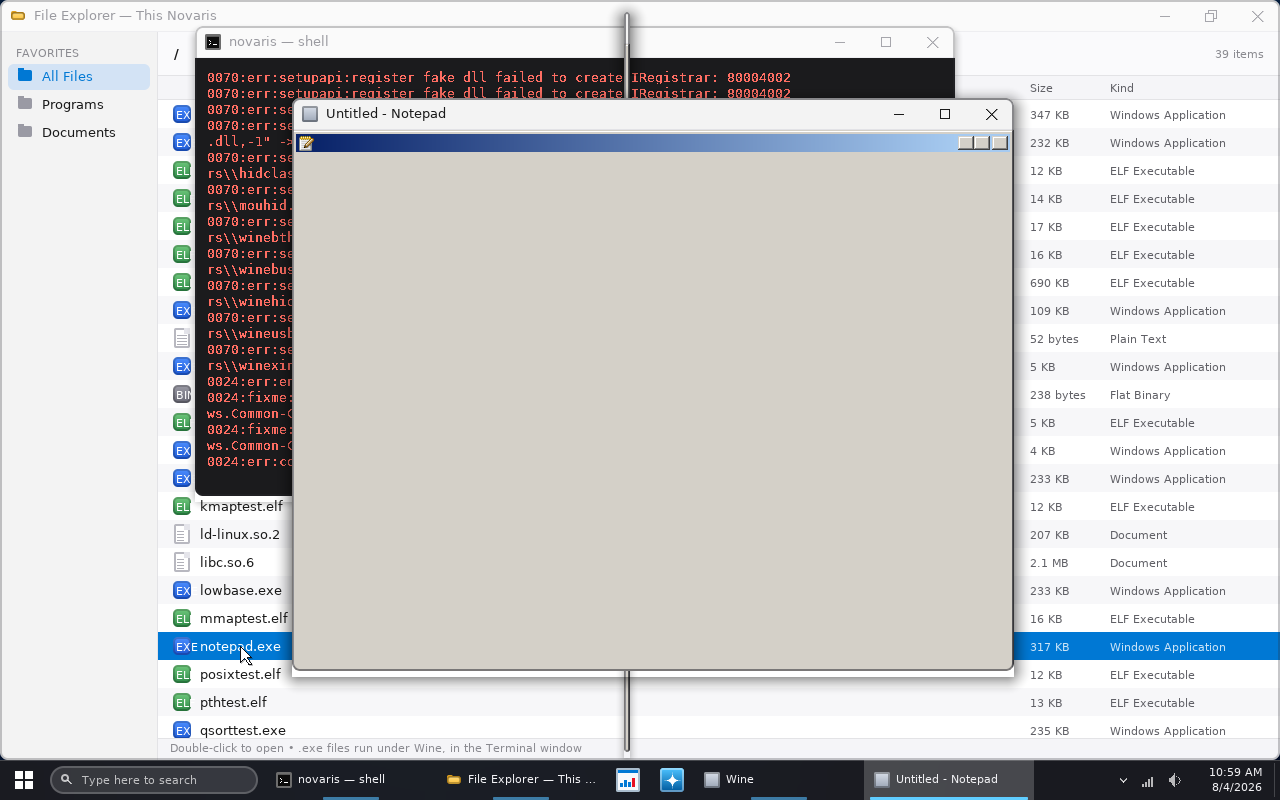
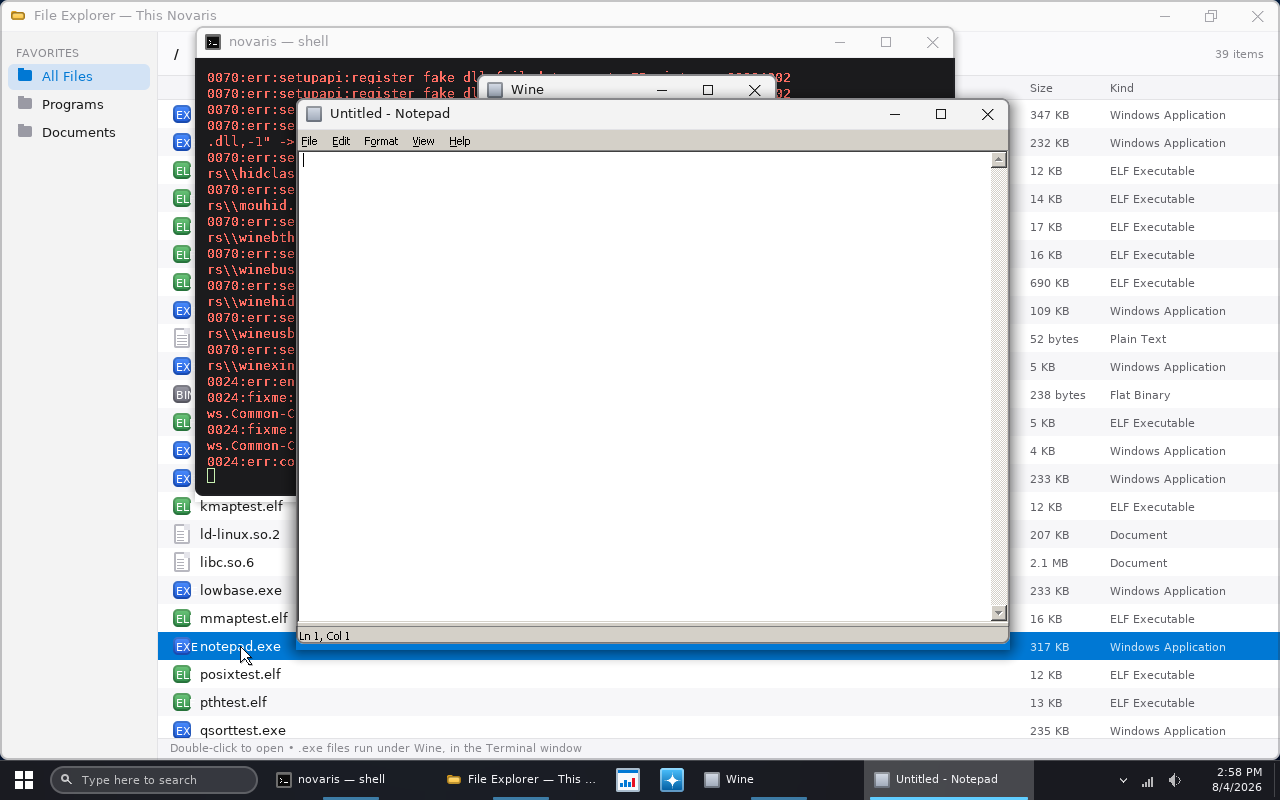
Fonts, and a window frame that is measured in glyphs
Notepad now has a menu bar reading File / Edit / Format / View / Help, a
white document area with a scroll bar and a caret, a status bar saying
"Ln 1, Col 1", and exactly one title bar.

The text was the obvious half. The other half is that Wine's *window
frame* is measured in glyphs: normalize_nonclientmetrics() sets
iCaptionHeight from `2 + tm.tmHeight` for the caption font, and with no
font engine that TEXTMETRICW is uninitialised stack. tm.tmHeight came out
at about six and three quarter million, so SM_CYCAPTION did too, and
every rectangle derived from it. That is why implementing
pGetWindowStyleMasks last time made Notepad vanish - win32u built the
non-client inset from that number and handed the driver a window 952
pixels wide and one tall.

So:

  apt-get install libfreetype-dev:i386   (dpkg --add-architecture i386)
  ./configure ... --with-freetype && make

and tools/install_wine.sh ships three things it did not before. Wine's
thirteen bundled .ttf faces into /usr/share/wine/fonts, which is where
get_fonts_data_dir_path() looks - 484KB. libfreetype.so.6 and what it
needs (libpng16, libz, libbz2, libbrotlidec, libbrotlicommon) into
/lib32, named explicitly rather than found: win32u dlopen()s FreeType by
SONAME, so it appears in no binary's NEEDED list and the loop that ships
every other library cannot see it. And pGetWindowStyleMasks is
implemented, because the numbers it depends on are real now.
[…]

diff --git a/wine/winenovaris.drv/window.c b/wine/winenovaris.drv/window.c
@@ -298,40 +298,62 @@ void NOVARIS_WindowPosChanged(HWND hwnd, HWND insert_after, HWND owner_hint, UIN
     if (width > novaris_screen.w) width = novaris_screen.w;
     if (height > novaris_screen.h) height = novaris_screen.h;
 
-    if (visible && !data->mapped && !data->closing && width > 0 && height > 0)
+    /* And big enough to be worth a frame. Explorer keeps a couple of
+     * captioned windows whose client area is a pixel or two tall - real
+     * windows, but not ones anybody is meant to look at, and a Novaris
+     * frame around one is 32 pixels of title bar over nothing. Sixteen
+     * square is well under any window a program shows on purpose. */
+    if (visible && !data->mapped && !data->closing && width >= 16 && height >= 16)
         window_create(data, width, height);
     else if (!visible && data->mapped) win_data_close(data);
 
     novaris_win_data_release(data);
 }
 
-/* Not implemented, and the reason is worth writing down.
+/**********************************************************************
+ *      GetWindowStyleMasks
  *
- * pGetWindowStyleMasks is how a driver says "the host draws the caption
- * and the frame, do not draw them yourself". Implementing it is the
- * obvious fix for the one cosmetic flaw here: Notepad draws its own blue
- * title bar inside the client area of the one Novaris has already drawn
- * around it.
+ * "Which of these styles do you draw yourself?" Novaris's window manager
+ * draws a title bar with the usual three buttons and a resizable frame
+ * around every window it owns, so win32u must not draw them too - and
+ * without this it did, leaving Notepad with its own blue caption sitting
+ * inside the one Novaris had already drawn for it.
  *
- * It cannot be used yet, and the reason is not in this file. win32u turns
- * the mask into a rectangle with NtUserAdjustWindowRect, whose caption
- * height comes from SM_CYCAPTION, which comes from
- * normalize_nonclientmetrics():
+ * Two things about the implementation, both learnt the hard way.
  *
- *     get_text_metr_size( hdc, &pncm->lfCaptionFont, &tm, NULL );
- *     pncm->iCaptionHeight = max( pncm->iCaptionHeight, 2 + tm.tmHeight );
+ * It answers from the styles it is passed and calls nothing. This runs
+ * inside win32u's window-position calculation - get_visible_rect(), with
+ * the window locked - so a driver that calls back into win32u here
+ * answers at the wrong time. X11's version calls nothing either, and that
+ * is not an accident.
  *
- * This Wine is configured --without-freetype, so there is no font engine,
- * no font, and tm.tmHeight is whatever was on the stack. On Novaris it is
- * about six and three quarter million, and the visible rectangle win32u
- * hands back is a window-wide strip one pixel tall at y=6750323. A window
- * that size is invisible, which is exactly what implementing this
- * produced: no Notepad at all, and a passing transcript.
- *
- * So this waits on fonts, and fonts wait on a Wine built with FreeType.
- * The same missing font engine is why a Windows program's window here has
- * no text in it.
+ * And it depends on there being a font. win32u turns the mask into a
+ * rectangle with NtUserAdjustWindowRect, whose caption height is
+ * SM_CYCAPTION, which normalize_nonclientmetrics() computes as
+ * `max(iCaptionHeight, 2 + tm.tmHeight)` for the caption font. With no
+ * font engine that TEXTMETRICW is uninitialised, tm.tmHeight came out at
+ * about six and three quarter million, and implementing this produced a
+ * Notepad window 952 pixels wide and one pixel tall - invisible, with a
+ * transcript that passed every assertion. That is why tools/install_wine.sh
+ * ships Wine's fonts and FreeType: not for the text, though the text is
+ * the visible half, but because the window frame is measured in glyphs.
  */
+BOOL NOVARIS_GetWindowStyleMasks(HWND hwnd, UINT style, UINT ex_style,
+                                 UINT *style_mask, UINT *ex_style_mask)
+{
+    (void)hwnd;
+    *style_mask = *ex_style_mask = 0;
+
+    if ((style & (WS_CHILD | WS_POPUP)) == WS_CHILD) return TRUE;
+
+    if ((style & WS_CAPTION) == WS_CAPTION || (style & WS_THICKFRAME) ||
+        (ex_style & WS_EX_APPWINDOW))
+    {
+        *style_mask = WS_CAPTION | WS_DLGFRAME | WS_THICKFRAME;
+        *ex_style_mask = WS_EX_DLGMODALFRAME;
+    }
+    return TRUE;
+}
 
 /**********************************************************************
  *      SetWindowText

diff --git a/tools/check_wine_window.py b/tools/check_wine_window.py
@@ -8,12 +8,16 @@ prove the *absence* of a window - "err:winediag:nodrv_CreateWindow" - only
 proves that no driver loaded, not that one worked.
 
 So this reads the screendump and looks for what a Win32 window is made
-of: a large solid block of 0xD4D0C8. That is COLOR_3DFACE, the grey every
-dialog, toolbar and control on Windows has been painted since 1995, and
-it is the background of a default Wine window. Nothing else on the
-Novaris desktop is that colour - the wallpaper is blue, the chrome is
-near-black, the terminal is near-black - so a block of it several hundred
-pixels on a side is a Windows program and nothing else.
+of: a large block of pure white - COLOR_WINDOW, the document area - with
+0xD4D0C8 around it, COLOR_3DFACE, the grey every menu bar, toolbar and
+status bar on Windows has been painted since 1995. Nothing else on this
+desktop is either colour: the wallpaper is blue, the terminal near-black,
+and Novaris's own title bars are 250,250,250 rather than 255.
+
+Both, rather than either. An earlier version looked for the grey alone
+and passed while Notepad had no text in it at all - with no font engine
+the whole window came out one flat grey, menu bar and document area
+alike. Chrome *around* a document is the shape of a window that works.
 
 Deliberately not looking for the *title*: reading "Untitled - Notepad"
 out of a screenshot means OCR, and a test that needs OCR to decide
@@ -32,6 +36,14 @@ from check_wm_window import read_ppm     # the PPM reader, not the checks
 FACE = (212, 208, 200)
 TOLERANCE = 4
 
+# COLOR_WINDOW: the white a document area is painted. Pure white, and
+# nothing else here is - Novaris's own title bars are 250,250,250 and its
+# chrome is lighter still but never 255. Checked separately from the grey
+# because the two together are what a *working* window looks like: chrome
+# around a document. A window with no font engine behind it is all grey,
+# which is how this test used to pass while Notepad had no text in it.
+WINDOW = (255, 255, 255)
+
 
 def main(argv):
     if len(argv) not in (2, 3):
@@ -49,17 +61,20 @@ def main(argv):
     per_col = [0] * w
     per_row = [0] * h
     total = 0
+    face = 0
 
     for y in range(h):
         base = y * w * 3
         for x in range(w):
             o = base + x * 3
-            if (abs(px[o] - FACE[0]) <= TOLERANCE and
-                    abs(px[o + 1] - FACE[1]) <= TOLERANCE and
-                    abs(px[o + 2] - FACE[2]) <= TOLERANCE):
+            if (px[o], px[o + 1], px[o + 2]) == WINDOW:
                 total += 1
                 per_col[x] += 1
                 per_row[y] += 1
+            elif (abs(px[o] - FACE[0]) <= TOLERANCE and
+                    abs(px[o + 1] - FACE[1]) <= TOLERANCE and
+                    abs(px[o + 2] - FACE[2]) <= TOLERANCE):
+                face += 1
 
     # The longest run of rows and of columns that are mostly this colour,
     # rather than the bounding box of every matching pixel: a single grey
@@ -81,15 +96,17 @@ def main(argv):
     y0, bh = extent(per_row, min_side // 2)
 
     checks = [
-        ("a Win32 window background is on screen", total > min_side * min_side),
+        ("a Win32 document area is on screen", total > min_side * min_side),
         ("it is a solid block, at least %dpx wide" % min_side, bw >= min_side),
         ("and at least %dpx tall" % min_side, bh >= min_side),
+        ("with Win32 chrome around it", face > 2000),
     ]
 
     ok = True
     print("check_wine_window: %s (%dx%d)" % (path, w, h))
-    print("  COLOR_3DFACE pixels: %d, a solid %dx%d block at (%d,%d)"
+    print("  COLOR_WINDOW pixels: %d, a solid %dx%d block at (%d,%d)"
           % (total, bw, bh, x0, y0))
+    print("  COLOR_3DFACE pixels: %d" % face)
     for label, passed in checks:
         print("  %s %s" % ("[ok]  " if passed else "[FAIL]", label))
         ok = ok and passed

diff --git a/wine/winenovaris.drv/novarisdrv.h b/wine/winenovaris.drv/novarisdrv.h
@@ -141,5 +141,7 @@ void     NOVARIS_WindowPosChanged(HWND hwnd, HWND insert_after, HWND owner_hint,
                                   const struct window_rects *new_rects,
                                   struct window_surface *surface);
 void     NOVARIS_SetWindowText(HWND hwnd, LPCWSTR text);
+BOOL     NOVARIS_GetWindowStyleMasks(HWND hwnd, UINT style, UINT ex_style,
+                                     UINT *style_mask, UINT *ex_style_mask);
 
 #endif /* __WINE_NOVARISDRV_H */

diff --git a/wine/winenovaris.drv/novarisdrv_main.c b/wine/winenovaris.drv/novarisdrv_main.c
@@ -104,6 +104,7 @@ static const struct user_driver_funcs novarisdrv_funcs =
 {
     .pCreateWindowSurface = NOVARIS_CreateWindowSurface,
     .pDestroyWindow = NOVARIS_DestroyWindow,
+    .pGetWindowStyleMasks = NOVARIS_GetWindowStyleMasks,
     .pProcessEvents = NOVARIS_ProcessEvents,
     .pSetWindowText = NOVARIS_SetWindowText,
     .pUpdateDisplayDevices = NOVARIS_UpdateDisplayDevices,

diff --git a/ROADMAP.md b/ROADMAP.md
@@ -5374,8 +5374,10 @@ same call X11 and Wayland make, so from `user32` upwards there is no
 difference between a click on a Novaris window and a click on an X11 one -
 no special cases anywhere above the driver.
 
-There is a fifth, `pGetWindowStyleMasks`, and it is *not* implemented -
-for a reason worth knowing, below.
+`pGetWindowStyleMasks` is the fifth, and it is about *not* doing
+something: it tells win32u that `WS_CAPTION`, `WS_DLGFRAME` and
+`WS_THICKFRAME` are drawn by the host. Getting it to work took two goes
+and a font engine - see below.
 
 ### Three things that had to be true first
 
@@ -5415,13 +5417,14 @@ Wine's own, from `nodrv_CreateWindow` and X11's `is_window_managed`: the
 desktop must be its parent, and it must look like something a user would
 drag.
 
-### The thing underneath the two remaining flaws: there is no font
+### The window frame is measured in glyphs
 
-A window here has no text in it, and it wears two title bars - its own,
-drawn by Wine inside the client area, and the one Novaris drew around it.
-Those look like two unrelated cosmetic problems. They are one problem.
+The first Notepad had no text in it, and it wore two title bars - its
+own, drawn by Wine inside the client area, and the one Novaris drew
+around it. Those looked like two unrelated cosmetic problems. They were
+one problem, and it was not a cosmetic one.
 
-This Wine is configured `--without-freetype`, because the host has no
+That Wine was configured `--without-freetype`, because the host had no
 32-bit FreeType to link against. No font engine means no font, and no
 font means `get_text_metr_size()` fills a `TEXTMETRICW` with whatever was
 on the stack. `normalize_nonclientmetrics()` then does:
@@ -5431,9 +5434,9 @@ get_text_metr_size( hdc, &pncm->lfCaptionFont, &tm, NULL );
 pncm->iCaptionHeight = max( pncm->iCaptionHeight, 2 + tm.tmHeight );
 ```
 
-On Novaris `tm.tmHeight` comes out at about six and three quarter
-million, so `SM_CYCAPTION` is six and three quarter million, and so is
-every rectangle computed from it. That is what finding this looked like:
+`tm.tmHeight` came out at about six and three quarter million, so
+`SM_CYCAPTION` was six and three quarter million, and so was every
+rectangle computed from it:
 
 ```
 DBG hwnd 0x10050 style 04cf0000 win (0,0)-(960,570)
@@ -5443,18 +5446,34 @@ DBG hwnd 0x10050 style 04cf0000 win (0,0)-(960,570)
 The window rect is right; the client rect is a strip one pixel tall at
 y=6750323.
 
-Which is why `pGetWindowStyleMasks` is not implemented. It is the correct
-fix for the double title bar - it tells win32u that the host draws the
-caption and the frame - but win32u turns the answer into a rectangle with
+That is why implementing `pGetWindowStyleMasks` - the correct fix for the
+double title bar, since it tells win32u the host draws the caption -
+made Notepad disappear entirely, with a transcript that still passed
+every assertion. win32u turns the mask into a rectangle with
 `NtUserAdjustWindowRect`, and that rectangle is built from
-`SM_CYCAPTION`. Implementing it produced a Notepad window 952 pixels wide
-and 1 pixel tall: invisible, with a transcript full of nothing. The entry
-point is written up in `wine/winenovaris.drv/window.c` where it would go,
-with this explanation, and it waits on fonts.
+`SM_CYCAPTION`. The window came out 952 pixels wide and one tall.
 
-Fonts wait on a Wine built with FreeType, which waits on a build host with
-32-bit FreeType development files. Wine's own `fonts/*.ttf` are only
-484KB - the bytes are not the problem, the rasteriser is.
+So: `apt-get install libfreetype-dev:i386`, reconfigure Wine
+`--with-freetype`, and `tools/install_wine.sh` ships three things it did
+not before -
+
+- Wine's thirteen bundled `.ttf` faces into `/usr/share/wine/fonts`,
+  which is where `get_fonts_data_dir_path()` looks. 484KB.
+- `libfreetype.so.6` and what it needs (`libpng16`, `libz`, `libbz2`,
+  `libbrotlidec`, `libbrotlicommon`) into `/lib32`. Named explicitly,
+  because win32u `dlopen`s FreeType by SONAME - it is in no binary's
+  `NEEDED` list, so the "ask the binaries what they need" loop that
+  ships every other library cannot see it.
+- and `pGetWindowStyleMasks` is now implemented, because the numbers it
+  depends on are real.
+
+Notepad now has a menu bar reading File / Edit / Format / View / Help, a
+white document area with a scroll bar, a status bar saying "Ln 1, Col 1",
+and exactly one title bar. `tools/check_wine_window.py` was rewritten
+around that: it used to look for one flat block of `COLOR_3DFACE`, which
+is what a window with no font engine looks like, and it now wants a white
+`COLOR_WINDOW` document area *with* grey chrome around it - the shape of
+a window that works rather than one that merely exists.
 
 ### What it does not do yet
 
@@ -5470,8 +5489,6 @@ Fonts wait on a Wine built with FreeType, which waits on a build host with
 - **The keyboard is a table, not a layout.** `vkey_for()` maps Novaris's
   character-plus-code to a virtual key well enough to type; a real
   keyboard needs `pKbdLayerDescriptor` and a `KBDTABLES`.
-- **No fonts, so no text and two title bars.** See above - one cause, and
-  it is a Wine build option rather than anything in this repository.
 - **No OpenGL, no Vulkan, no clipboard, no IME, no cursor shapes, no
   display-mode changes.** All optional entry points, all absent, and
   win32u has sensible behaviour for a driver that does not fill them in.
@@ -5534,17 +5551,17 @@ much each would widen what runs:
    ```bash
    git clone --depth 1 -b stable https://github.com/wine-mirror/wine
    cd wine && CC="gcc -m32" ./configure --enable-archs=i386 \
-       --disable-tests --without-x --without-freetype --without-vulkan \
+       --disable-tests --without-x --with-freetype --without-vulkan \
        --without-opengl && make -j4
    cd ../NovarisOS && make WINE_BUILD=../wine
    make test-wine test-wine-threads test-wine-gui
    ```
 
-   `--without-freetype` is what the host makes possible rather than what
-   is wanted: with 32-bit FreeType development files, drop it, and
-   Milestone 37's two remaining flaws - no text in a window, and a window
-   with two title bars - both go. See that milestone for why they are the
-   same flaw.
+   `--with-freetype` is not optional if you want windows: without a font
+   engine Wine's caption metrics are uninitialised stack, and the window
+   frame is measured from them. `apt-get install libfreetype-dev:i386`
+   first (`dpkg --add-architecture i386` if it is not enabled). See
+   Milestone 37.
 
    `make` also builds Novaris's Wine display driver and installs it, by
    grafting `wine/winenovaris.drv/` into the Wine tree

diff --git a/README.md b/README.md
@@ -127,11 +127,12 @@ the framebuffer. Input comes back the other way through
 `NtUserSendHardwareInput`, the same call X11 and Wayland make, so above
 the driver there is no difference between a click here and a click on X.
 
-It has no text in it, and it wears two title bars. Both are the same
-missing piece — this Wine is built `--without-freetype`, so there is no
-font engine — and `ROADMAP.md`'s Milestone 37 traces exactly how one
-missing font turns into a caption six and three quarter million pixels
-tall.
+The menu bar, the scroll bar and the status bar are real: Wine's own
+TrueType faces ship in the image and win32u rasterises them with
+FreeType. That mattered for more than the text — with no font engine
+Wine's caption metrics are uninitialised stack, and a window's *frame* is
+measured from them, so the first version of this had a title bar six and
+three quarter million pixels tall. `ROADMAP.md`'s Milestone 37 traces it.
 
 ## The desktop
 
